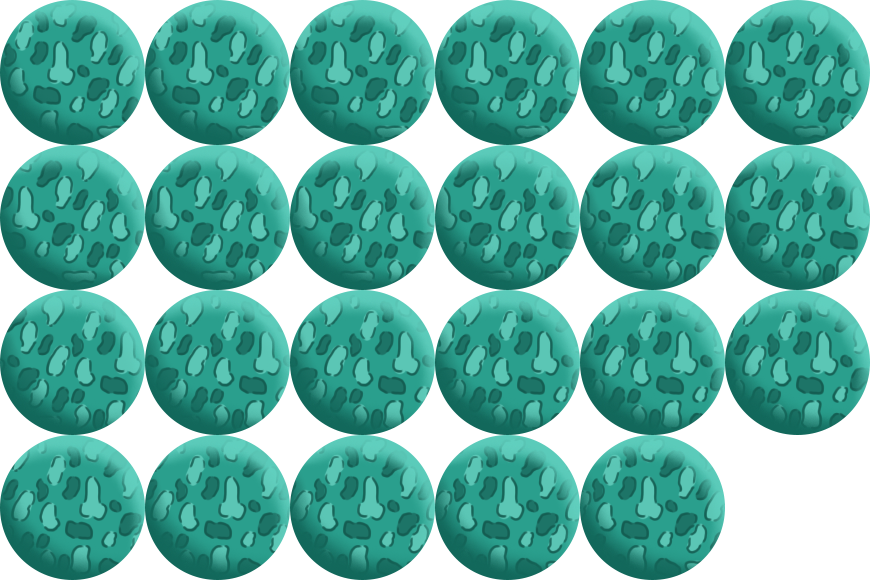
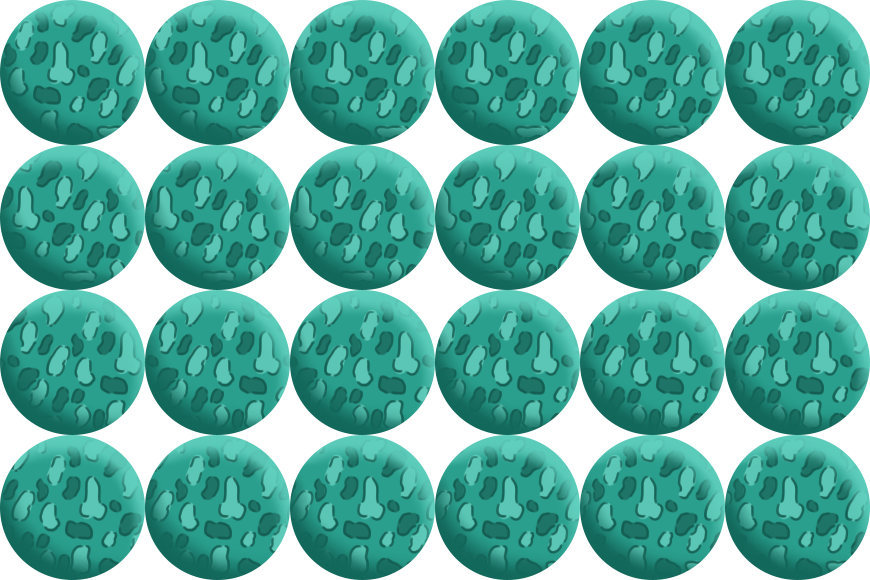
Added correct planet sprites

Changed region(s): [[0.8069, 0.7448, 1.0, 1.0]]

diff --git a/ProjectFinalApproach-GXP/GXPEngine/Ball.cs b/ProjectFinalApproach-GXP/GXPEngine/Ball.cs
@@ -16,9 +16,10 @@ internal class Ball : AnimationSprite
     float Angle;
     bool DestroyObject = true;
     bool tester;
+    int ballRad = 45; //This is because the goat sprite uses a lot of free space around the sphere. for calc use this as raduis
 
     //tweak the speed of the ball here!!
-    public int speed = 5;
+    public int speed = 3;
 
     public Ball(float pAngle, Vec2 pPlayerPos, bool pTester = false) : base("spr_goat1.png", 3, 3, -1, false, false)
     {
@@ -31,28 +32,13 @@ internal class Ball : AnimationSprite
 
     }
 
-    public Ball(string imageFile, int cols, int rows, TiledObject obj = null) : base(imageFile, cols, rows)
-    {
-        Initialize();
-    }
-
-    void Initialize()
-    {
-        radius = 16;
-        SetOrigin(width / 2, height / 2);
-        SetScaleXY(radius * 2, radius * 2);
-
-        Position = new Vec2(100, game.height / 2);
-        Velocity = new Vec2(4, 0);
-        Velocity = Velocity.Normalized() * speed;
-    }
-
     void InitializeNormal() // 
     {
         SetOrigin(width / 2, height / 2);
         scale = 0.75f;
+        radius = ballRad;
         Position = PlayerPos;
-        Velocity = new Vec2(0, -3);
+        Velocity = new Vec2(0, -speed);
         Velocity.SetAngleDegrees(Mathf.Clamp(Angle,-135,-45));
     }
     void InitializeTester() // 
@@ -61,8 +47,30 @@ internal class Ball : AnimationSprite
         SetColor(255, 255, 0);
         scale = 0.75f;
         Position = PlayerPos;
-        Velocity = new Vec2(0, -5);
+        Velocity = new Vec2(0, -speed*1.5f);
         Velocity.SetAngleDegrees(Mathf.Clamp(Angle, -135, -45));
+    }
+
+
+    void Update()
+    {
+        x = Position.x;
+        y = Position.y;
+
+        Position += Velocity;
+        Console.WriteLine(Velocity);
+        BoundaryWrap();
+        CheckPlanetCollision();
+
+        //Change the transparity off the test ball object
+        if (tester) alpha -= 0.01f;
+        if (alpha <= 0) alpha = 0;
+
+        //hold down space to invert the velocity, sending the ball backwards
+        if (Input.GetKeyDown(Key.SPACE))
+        {
+            Velocity = Velocity * -1;
+        }
     }
 
     //Method to keep the projectile inside the game scene
@@ -131,6 +139,7 @@ internal class Ball : AnimationSprite
                 //get the distance between the planet and the ball
                 planetDistance = Position - planetObjects[i].Position;
 
+
                 //if that distance is less than the radius sum (collision)
                 if (planetDistance.Length() <= radius + planetObjects[i].radius)
                 {
@@ -146,24 +155,4 @@ internal class Ball : AnimationSprite
         }
     }
 
-    void Update()
-    {
-        x = Position.x;
-        y = Position.y;
-
-        Position += Velocity;
-
-        BoundaryWrap();
-        CheckPlanetCollision();
-
-        //Change the transparity off the test ball object
-        if (tester) alpha -= 0.01f;
-        if (alpha <= 0) alpha = 0;
-
-        //hold down space to invert the velocity, sending the ball backwards
-        if (Input.GetKeyDown(Key.SPACE))
-        {
-            Velocity = Velocity * -1;
-        }
-    }
 }

diff --git a/ProjectFinalApproach-GXP/GXPEngine/Planet.cs b/ProjectFinalApproach-GXP/GXPEngine/Planet.cs
@@ -12,34 +12,34 @@ internal class Planet : AnimationSprite
     public Vec2 Position;
     public int radius;
     List<Gravity> gravityObjects;
-    public Planet() : base("Planet.png", 1, 1, -1, false, false)
+
+    public Planet(TiledObject obj = null) : base("Planet.png", 1, 1, -1, false, false)
     {
-        Initialize();
+        Initialize(obj);
     }
 
     public Planet(string imageFile, int cols, int rows, TiledObject obj = null) : base(imageFile, cols, rows)
     {
-        Initialize();
+        Initialize(obj);
     }
 
-    void Initialize()
+    void Initialize(TiledObject obj)
     {
         SetOrigin(width/2, height/2);
-       
-        radius = 32;
-       
     }
 
     void Update()
-    {
+    { 
+        radius = width / 2;
         //first make sure that the start position is the same as the one in Tiled, since the Initialize void is not updated before
         Position = new Vec2(x, y);
         PlanetAlignment();
         Animation();
-
+        
         x = Position.x;
         y = Position.y;
-        
+        //Console.WriteLine(radius);
+
     }
 
     void PlanetAlignment()

diff --git a/ProjectFinalApproach-GXP/GXPEngine/Gravity.cs b/ProjectFinalApproach-GXP/GXPEngine/Gravity.cs
@@ -159,6 +159,9 @@ internal class Gravity : AnimationSprite
         float rotation = Mathf.Clamp(rotationMouse.GetAngleDegrees(), RotClampMin, RotClampMax);
         Vec2 dist = Position - mousePos;
 
+        if (Input.GetKeyDown(Key.P)) Console.WriteLine(rotation);
+
+
         //Pressing the right mouse button to change the gravity position
         if (Input.GetMouseButton(1) && dist.Length() < radius)
         {

diff --git a/ProjectFinalApproach-GXP/GXPEngine/Button.cs b/ProjectFinalApproach-GXP/GXPEngine/Button.cs
@@ -12,7 +12,7 @@ internal class Button : AnimationSprite
     string action;
     string CurrentScene;
     Vec2 Position;
-    public Button(TiledObject obj = null) : base("Square.png", 1, 1, -1)
+    public Button(string imageFile = "Square.png", TiledObject obj = null) : base(imageFile,1, 1, -1)
     {
         Initialize(obj);
     }

diff --git a/ProjectFinalApproach-GXP/GXPEngine/MyGame.cs b/ProjectFinalApproach-GXP/GXPEngine/MyGame.cs
@@ -38,6 +38,7 @@ public class MyGame : Game {
 			DestroyAll();
 			AddChild(new Scene(nextScene));
 
+
 			nextScene = null;
 		}
 	}
@@ -53,7 +54,7 @@ public class MyGame : Game {
 		if (deathCount == 0)
 		{
 			LoadScene("Level_1.tmx");
-			deathCount = 3;
+            deathCount = 3;
 		}
 	}
 
